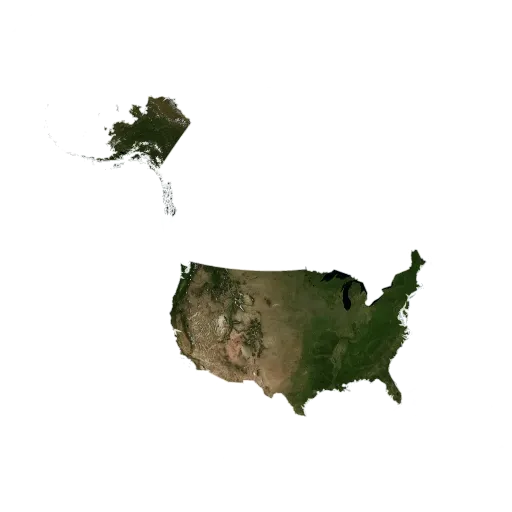
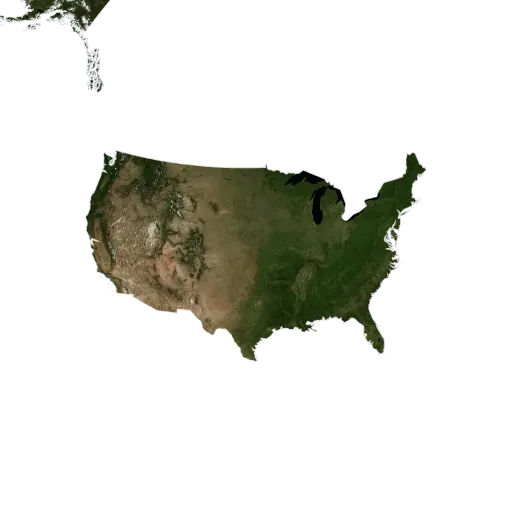
Limit the USA's main landmass to the contiguous states
Adds the first entry to mainLandmassOverrides.json, a box that leaves out
Alaska and Hawaii. Tapping the USA now zooms to about 2.1 instead of the
1.25 floor, and its picture frames the contiguous states. The overrides
cast now goes through unknown, because TypeScript reads a JSON box as
number[] rather than four numbers.

Changed region(s): [[0.1562, 0.1875, 0.8438, 0.8125], [0.0, 0.0, 0.2188, 0.1875]]

diff --git a/src/features/globe/mainLandmass.ts b/src/features/globe/mainLandmass.ts
@@ -17,7 +17,9 @@ export type MainLandmassOverride = {
 }
 
 // Hand-written exceptions to the automatic rule, keyed by ISO alpha-3.
-export const MAIN_LANDMASS_OVERRIDES = overridesJson as Record<string, MainLandmassOverride>
+// TypeScript reads each JSON box as number[], not four numbers, so the cast
+// goes through unknown.
+export const MAIN_LANDMASS_OVERRIDES = overridesJson as unknown as Record<string, MainLandmassOverride>
 
 // Islands and territories whose nearest coastline is further than this from
 // the centre of the country's largest part are left out (e.g. French Guiana

diff --git a/src/features/globe/focusZoom.ts b/src/features/globe/focusZoom.ts
@@ -3,7 +3,7 @@
 // across (about São Tomé and Príncipe) go to TINY_COUNTRY_ZOOM; wider ones
 // zoom out by ZOOM_OUT_PER_1000_KM for every 1000 km of extra width, e.g.
 // Ivory Coast (850 km) to about 3.9, India (4700 km) 2.3, China (5700 km)
-// 1.9 and Canada (6350 km) 1.6. The widest countries (Russia, USA) stop at
+// 1.9 and Canada (6350 km) 1.6. The widest country (Russia) stops at
 // MIN_FOCUS_ZOOM.
 const TINY_COUNTRY_KM = 320
 const TINY_COUNTRY_ZOOM = 4.1

diff --git a/src/features/globe/focusZoom.test.ts b/src/features/globe/focusZoom.test.ts
@@ -28,7 +28,6 @@ describe('focusZoomFor', () => {
   it('keeps zooming out for countries bigger than Canada, down to 1.25', () => {
     expect(focusZoomOf('RUS')).toBeLessThan(focusZoomOf('CAN'))
     expect(focusZoomOf('RUS')).toBe(1.25)
-    expect(focusZoomOf('USA')).toBe(1.25)
   })
 
   it('zooms out further the wider the country', () => {

diff --git a/CLAUDE.md b/CLAUDE.md
@@ -29,7 +29,7 @@ The app opens on a main menu (Globe, Flashcards); each screen has a "← Menu" b
    - Capital check ignores case, accents and surrounding spaces; spelling must otherwise be exact (no fuzzy matching). Any one of several capitals counts.
    - Scheduling: SM-2 (Anki-style). Grade from the number correct out of 5: 5 → 5, 4 → 4, 3 → 3, 2 → 2, 0–1 → 0 (below 3 fails; a failed card is due tomorrow). Tuvalu's card has 4 questions: 4 → 5, 3 → 4, 2 → 2, 0–1 → 0. Due reviews come first (most overdue first), then unseen countries in random order, with no daily limit on new cards.
    - Possible later additions: more facts (flag, region, languages, etc.).
-2. **Interactive globe** – spin and pinch-zoom a 3D globe with satellite imagery, which flattens into a map when zoomed in; tap a country to open an info panel; the globe turns to centre the country's main landmass in the space above the panel (`mainLandmass.ts`; see Data → Country pictures) and zooms by its width (`focusZoom.ts`): countries up to ~320 km across (São Tomé and Príncipe) go to zoom 4.1, and wider ones zoom out 0.41 per extra 1000 km (Ivory Coast ~3.9, India ~2.3, China ~1.9, Canada ~1.6), stopping at 1.25 (Russia, USA). The zoom is the same on every screen size.
+2. **Interactive globe** – spin and pinch-zoom a 3D globe with satellite imagery, which flattens into a map when zoomed in; tap a country to open an info panel; the globe turns to centre the country's main landmass in the space above the panel (`mainLandmass.ts`; see Data → Country pictures) and zooms by its width (`focusZoom.ts`): countries up to ~320 km across (São Tomé and Príncipe) go to zoom 4.1, and wider ones zoom out 0.41 per extra 1000 km (Ivory Coast ~3.9, India ~2.3, China ~1.9, Canada ~1.6), stopping at 1.25 (Russia). The zoom is the same on every screen size.
 
 Features should link up via ISO country codes, e.g. "show on globe" from a flashcard, "add to flashcards" from the globe info panel.
 
@@ -55,7 +55,7 @@ Features should link up via ISO country codes, e.g. "show on globe" from a flash
   - The imagery stops gaining detail around map zoom 5; borders keep gaining detail to about zoom 8.
 - Named ranges: population, area and IHDI are shown and asked as range titles (e.g. "Numerous", "Medium", "8 - Great"), never exact numbers. Ranges are defined in `src/shared/statRanges.ts` (each starts at its `min`, inclusive). IHDI titles are the IHDI × 10, rounded half up. A page showing the range boundaries is planned.
 - Country pictures: `public/country-images/{ISO}.webp`, 512×512, generated by `node scripts/make-country-images.mjs [codes...]` (all countries if no codes) and committed (~3 MB). Each looks straight down on the globe at the country's main landmass (far-off islands and territories are left out): the country textured with the Blue Marble tiles, other land faintly filled, all borders outlined, ocean transparent.
-  - Main landmass (`src/features/globe/mainLandmass.ts`, the one copy of the rule, also used for the globe's zoom-to-country and the flashcard fly-to): the country's largest part plus parts near it. Exceptions are hand-written in `src/data/mainLandmassOverrides.json`, keyed by ISO alpha-3, e.g. `"USA": { "box": [-170, 18, -66, 72], "note": "Include Alaska and Hawaii" }`. Every part whose centre is inside the box `[west, south, east, north]` counts (east may go above 180 for countries across the 180° meridian). After editing it, regenerate that country's picture; a test checks each box selects at least one part.
+  - Main landmass (`src/features/globe/mainLandmass.ts`, the one copy of the rule, also used for the globe's zoom-to-country and the flashcard fly-to): the country's largest part plus parts near it. Exceptions are hand-written in `src/data/mainLandmassOverrides.json`, keyed by ISO alpha-3, e.g. `"USA": { "box": [-125, 24, -66, 50], "note": "Contiguous states only: leave out Alaska and Hawaii" }`. Every part whose centre is inside the box `[west, south, east, north]` counts (east may go above 180 for countries across the 180° meridian). After editing it, regenerate that country's picture; a test checks each box selects at least one part.
   - Countries 1000 km or more across fill 2/3 of the picture; smaller ones fill less, down to 1/2 at 100 km. Zoom is capped at 4× the tile resolution, and countries still under 20 px across (Monaco, Nauru, San Marino, Vatican) get a yellow ring.
   - Tuvalu has no picture (no outline in world-atlas).
 - `src/data/countries.json` – facts for the 195 countries keyed by ISO alpha-3 (typed as `CountryFacts` in `src/shared/countryFacts.ts`), generated by `node scripts/make-country-data.mjs <source-folder>` and committed; the script lists the download links.
